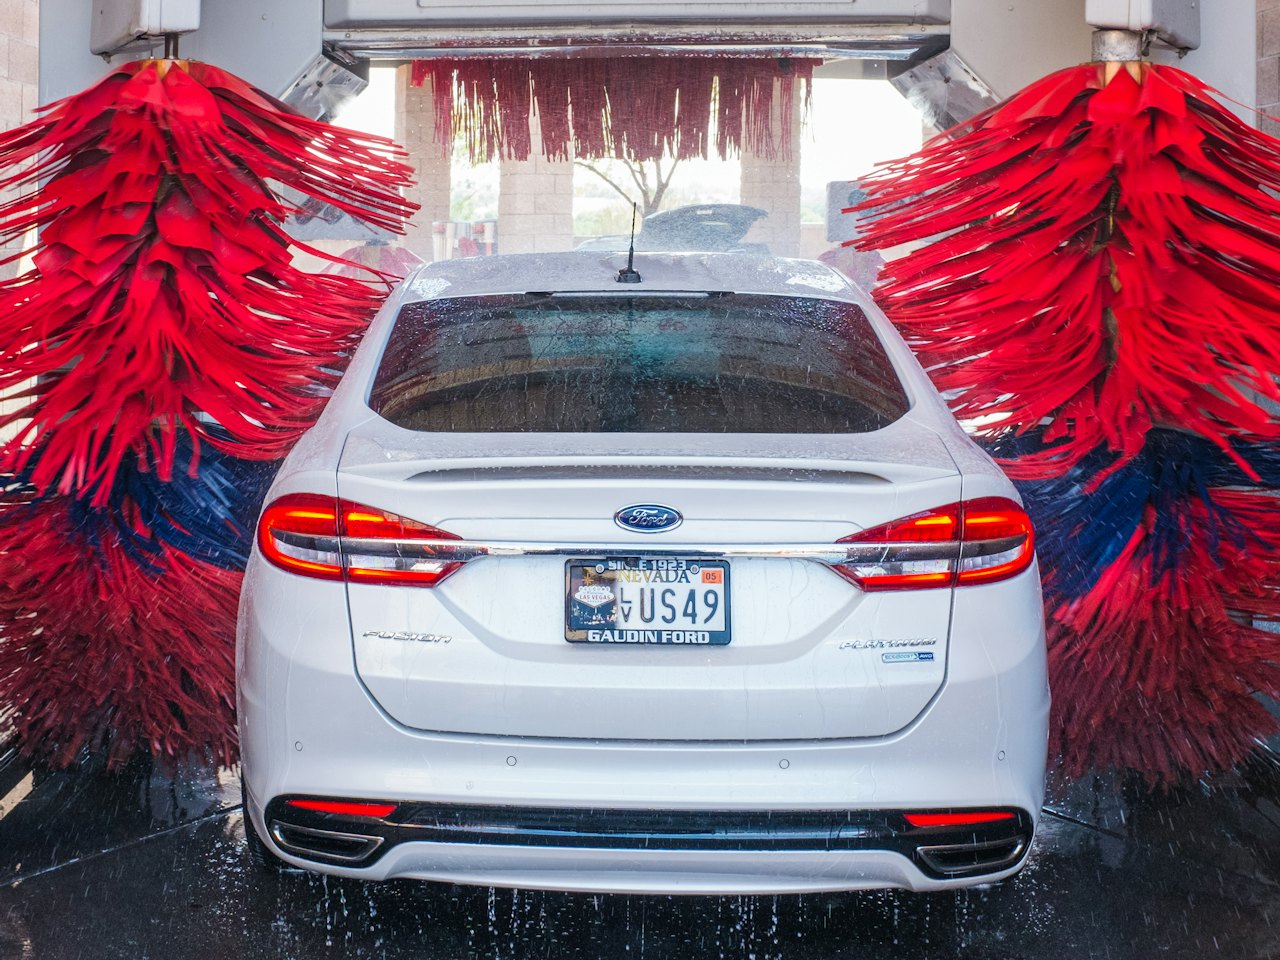
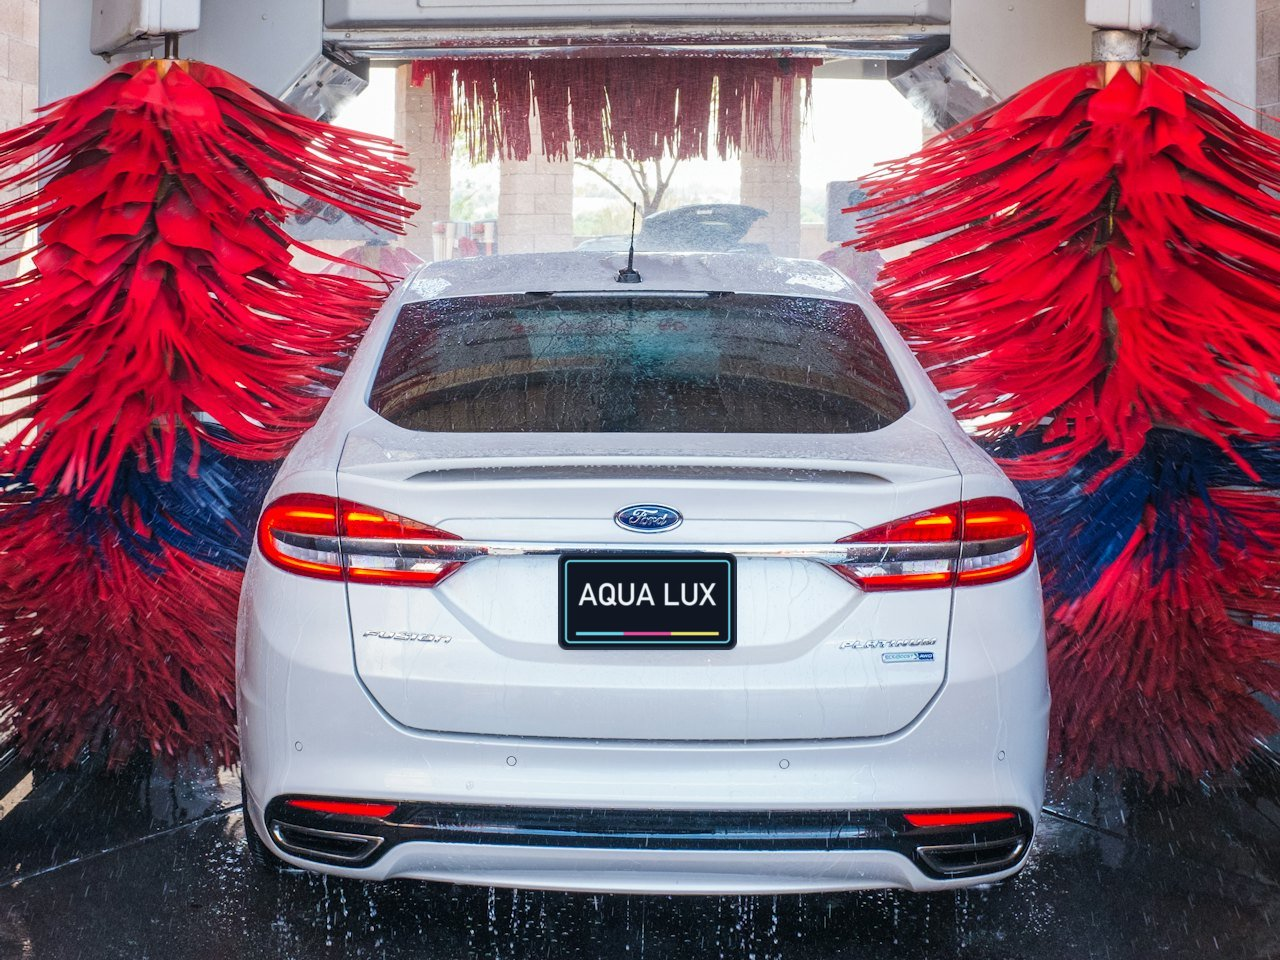
Use real before/after pair and hide plate on tunnel photo
- Results slider uses a same-car dirty/clean pair, labelled Before/After
- Cover the license plate on the brush tunnel photo with an Aqua Lux plate
- Drop the foam/finish stand-ins and their photo credit

Changed region(s): [[0.4375, 0.5625, 0.5938, 0.6875]]

diff --git a/src/data/site.ts b/src/data/site.ts
@@ -3,8 +3,8 @@ import touchlessImg from "@/assets/machine-touchless.jpg";
 import beadingImg from "@/assets/gallery-1.jpg";
 import wheelImg from "@/assets/gallery-wheel.jpg";
 import rinseImg from "@/assets/gallery-rinse.jpg";
-import foamImg from "@/assets/wash-foam.jpg";
-import finishImg from "@/assets/wash-finish.jpg";
+import beforeImg from "@/assets/before-dirty.jpg";
+import afterImg from "@/assets/after-clean.jpg";
 
 /**
  * The wash tunnel, as a scroll map. Each stage lights up while its section (or one of the
@@ -159,14 +159,10 @@ export const detailSteps = [
   "Odor neutralization & ozone treatment",
 ];
 
-/** Two stages of the wash for the wipe slider. Stock photos of two different cars, so not labelled before/after. */
+/** Same car, same angle, for the wipe slider. */
 export const beforeAfter = {
-  before: { src: foamImg, label: "Foam", alt: "Car covered in thick foam under the wash arch" },
-  after: {
-    src: finishImg,
-    label: "Finish",
-    alt: "Clean black car with headlights on in a dark garage",
-  },
+  before: { src: beforeImg, label: "Before", alt: "White SUV coupe covered in mud and road grime" },
+  after: { src: afterImg, label: "After", alt: "The same SUV coupe washed clean and glossy" },
 };
 
 export const galleryImgs = [
@@ -184,10 +180,6 @@ export const photoCredits = [
   {
     name: "Zulfahmi Khani",
     url: "https://unsplash.com/photos/water-fountain-in-the-middle-of-the-road-9gvFjMVS9A0",
-  },
-  {
-    name: "Chen",
-    url: "https://unsplash.com/photos/a-black-car-parked-in-a-parking-garage-p-NR7wul5TY",
   },
   {
     name: "Zac Nielson",

diff --git a/src/components/site/BeforeAfter.tsx b/src/components/site/BeforeAfter.tsx
@@ -2,29 +2,29 @@ import { useState } from "react";
 import { ChevronsLeftRight } from "lucide-react";
 import { beforeAfter } from "@/data/site";
 
-/** Drag (or arrow-key) the divider to wipe between the foam and finish shots. */
+/** Drag (or arrow-key) the divider to wipe between the dirty and clean shot. */
 export function BeforeAfter() {
   const [pos, setPos] = useState(50);
   const { before, after } = beforeAfter;
   return (
     <div
-      className="relative overflow-hidden rounded-xl border border-border"
+      className="relative overflow-hidden rounded-xl border border-border bg-white"
       style={{ boxShadow: "var(--shadow-card)" }}
     >
       <img
         src={after.src}
         alt={after.alt}
         loading="lazy"
-        width={1536}
-        height={1024}
+        width={1200}
+        height={800}
         className="aspect-[3/2] w-full object-cover"
       />
       <img
         src={before.src}
         alt={before.alt}
         loading="lazy"
-        width={1536}
-        height={1024}
+        width={1200}
+        height={800}
         className="absolute inset-0 h-full w-full object-cover"
         style={{ clipPath: `inset(0 ${100 - pos}% 0 0)` }}
       />

diff --git a/src/components/site/Gallery.tsx b/src/components/site/Gallery.tsx
@@ -8,7 +8,7 @@ export function Gallery() {
       <SectionHead
         tag="Results"
         title="The finish line"
-        sub="From foam bath to mirror finish. Drag the divider to wipe the car clean."
+        sub="Same car, one wash apart. Drag the divider to wipe away the grime."
       />
       <div className="mx-auto mt-14 max-w-5xl">
         <BeforeAfter />
